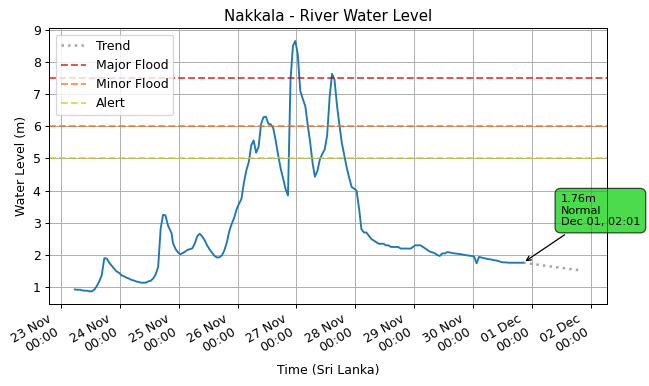
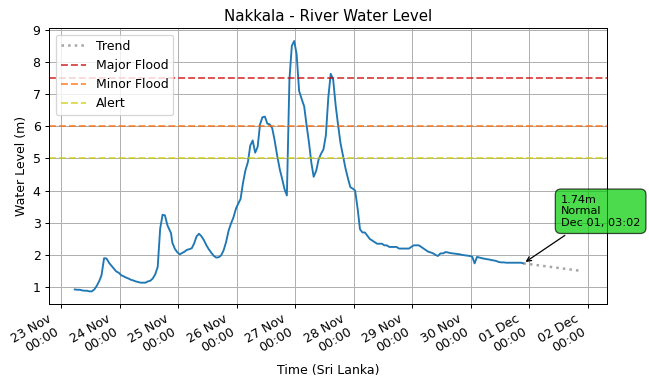
🤖 [update_latest.yml] 2025-11-30-2133

diff --git a/README.md b/README.md
@@ -1,11 +1,11 @@
 # lk_irrigation 🇱🇰
 
 ![Status: Live](https://img.shields.io/badge/status-live-brightgreen)
-![LastUpdated](https://img.shields.io/badge/last_updated-2025--12--01_02:11:32-green)
+![LastUpdated](https://img.shields.io/badge/last_updated-2025--12--01_03:02:46-green)
 
 Realtime Data about *River Water Levels* in Sri Lanka, from the [Irrigation Deptartment](https://www.irrigation.gov.lk)'s [Hydrology and Disaster Management](https://www.irrigation.gov.lk/web/index.php?option=com_content&view=article&id=27&Itemid=128&lang=en) Division.
 
-- [Complete Dataset](data/rwlds) with **6,317 measurements** from **39** stations.
+- [Complete Dataset](data/rwlds) with **6,324 measurements** from **39** stations.
 - [Scrape and load logic](src/lk_irrigation/rwld/RiverWaterLevelDataLoadMixin.py)
 - [Original Data source](https://www.arcgis.com/apps/dashboards/2cffe83c9ff5497d97375498bdf3ff38)
 
@@ -19,6 +19,13 @@ Realtime Data about *River Water Levels* in Sri Lanka, from the [Irrigation Dept
 
 | Measured At | Station (River Basin) | Level (m) | Alert Level | Rate-of-Rise (m/hr) | Rising Alert |
 | --- | --- | ---: | --- | ---: | --- |
+| 2025-12-01 03:02:46 | Urawa (Nilwala Ganga) | 0.75 | 🟢 Normal | -0.020 |  |
+| 2025-12-01 03:02:27 | Pitabeddara (Nilwala Ganga) | 1.10 | 🟢 Normal | -0.020 |  |
+| 2025-12-01 03:02:10 | Nawalapitiya (Mahaweli Ganga) | 1.96 | 🟢 Normal | -1.565 |  |
+| 2025-12-01 03:02:07 | Nakkala (Kumbukkan Oya) | 1.74 | 🟢 Normal | -0.020 |  |
+| 2025-12-01 03:02:06 | Siyambalanduwa (Heda Oya) | 1.25 | 🟢 Normal | 0.000 |  |
+| 2025-12-01 03:01:47 | Nawalapitiya (Mahaweli Ganga) | 1.97 | 🟢 Normal | -1.565 |  |
+| 2025-12-01 03:01:23 | Nawalapitiya (Mahaweli Ganga) | 1.98 | 🟢 Normal | -1.565 |  |
 | 2025-12-01 02:11:32 | Putupaula (Kalu Ganga) | 4.29 | 🟠 Minor Flood | 0.000 |  |
 | 2025-12-01 02:09:26 | Kithulgala (Kelani Ganga) | 2.39 | 🟢 Normal | 0.037 | 🔺 Rising |
 | 2025-12-01 02:08:53 | Baddegama (Gin Ganga) | 2.24 | 🟢 Normal | -0.019 |  |
@@ -35,16 +42,9 @@ Realtime Data about *River Water Levels* in Sri Lanka, from the [Irrigation Dept
 | 2025-12-01 02:04:38 | Nagalagam Street (Kelani Ganga) | 2.53 | 🔴 Major Flood | 0.000 |  |
 | 2025-12-01 02:03:53 | Norwood (Kelani Ganga) | 1.36 | 🟢 Normal | 0.020 | 🔺 Rising |
 | 2025-12-01 02:03:47 | Thalgahagoda (Nilwala Ganga) | 1.02 | 🟢 Normal | -0.011 |  |
-| 2025-12-01 02:03:35 | Siyambalanduwa (Heda Oya) | 1.25 | 🟢 Normal | -0.010 |  |
+| 2025-12-01 02:03:35 | Siyambalanduwa (Heda Oya) | 1.25 | 🟢 Normal | 0.000 |  |
 | 2025-12-01 02:03:16 | Yaka Wewa (Ma Oya) | 1.29 | 🟢 Normal | -0.020 |  |
-| 2025-12-01 02:03:15 | Urawa (Nilwala Ganga) | 0.77 | 🟢 Normal | 0.000 |  |
-| 2025-12-01 02:02:20 | Dunamale (Aththanagalu Oya) | 4.80 | 🟠 Minor Flood | -0.050 |  |
-| 2025-12-01 02:02:12 | Katharagama (Menik Ganga) | 0.94 | 🟢 Normal | -0.010 |  |
-| 2025-12-01 02:02:04 | Pitabeddara (Nilwala Ganga) | 1.12 | 🟢 Normal | -0.010 |  |
-| 2025-12-01 02:01:51 | Nakkala (Kumbukkan Oya) | 1.76 | 🟢 Normal | 0.000 |  |
-| 2025-12-01 02:01:44 | Thawalama (Gin Ganga) | 2.09 | 🟢 Normal | 0.000 |  |
-| 2025-12-01 02:01:41 | Glencourse (Kelani Ganga) | 14.46 | 🟢 Normal | -0.247 |  |
-| 2025-12-01 02:01:36 | Kuda Oya (Kirindi Oya) | 1.94 | 🟢 Normal | 0.000 |  |
+| 2025-12-01 02:03:15 | Urawa (Nilwala Ganga) | 0.77 | 🟢 Normal | -0.020 |  |
 
 ## Latest by Station
 
@@ -71,26 +71,26 @@ Realtime Data about *River Water Levels* in Sri Lanka, from the [Irrigation Dept
 | 2025-12-01 02:09:26 | Kithulgala (Kelani Ganga) | 2.39 | 🟢 Normal | 0.037 | 🔺 Rising |
 | 2025-12-01 02:03:53 | Norwood (Kelani Ganga) | 1.36 | 🟢 Normal | 0.020 | 🔺 Rising |
 | 2025-12-01 02:06:21 | Wellawaya (Kirindi Oya) | 1.23 | 🟢 Normal | 0.000 |  |
-| 2025-12-01 02:01:51 | Nakkala (Kumbukkan Oya) | 1.76 | 🟢 Normal | 0.000 |  |
 | 2025-12-01 02:06:43 | Deraniyagala (Kelani Ganga) | 1.45 | 🟢 Normal | 0.000 |  |
+| 2025-12-01 03:02:06 | Siyambalanduwa (Heda Oya) | 1.25 | 🟢 Normal | 0.000 |  |
 | 2025-12-01 02:01:44 | Thawalama (Gin Ganga) | 2.09 | 🟢 Normal | 0.000 |  |
-| 2025-12-01 02:03:15 | Urawa (Nilwala Ganga) | 0.77 | 🟢 Normal | 0.000 |  |
 | 2025-12-01 02:01:36 | Kuda Oya (Kirindi Oya) | 1.94 | 🟢 Normal | 0.000 |  |
 | 2025-12-01 02:06:48 | Panadugama (Nilwala Ganga) | 3.53 | 🟢 Normal | -0.010 |  |
-| 2025-12-01 02:03:35 | Siyambalanduwa (Heda Oya) | 1.25 | 🟢 Normal | -0.010 |  |
 | 2025-12-01 02:08:04 | Thanamalwila (Kirindi Oya) | 1.64 | 🟢 Normal | -0.010 |  |
-| 2025-12-01 02:02:04 | Pitabeddara (Nilwala Ganga) | 1.12 | 🟢 Normal | -0.010 |  |
 | 2025-12-01 02:02:12 | Katharagama (Menik Ganga) | 0.94 | 🟢 Normal | -0.010 |  |
 | 2025-12-01 02:03:47 | Thalgahagoda (Nilwala Ganga) | 1.02 | 🟢 Normal | -0.011 |  |
-| 2025-12-01 00:01:55 | Nawalapitiya (Mahaweli Ganga) | 1.99 | 🟢 Normal | -0.011 |  |
 | 2025-12-01 02:08:53 | Baddegama (Gin Ganga) | 2.24 | 🟢 Normal | -0.019 |  |
+| 2025-12-01 03:02:27 | Pitabeddara (Nilwala Ganga) | 1.10 | 🟢 Normal | -0.020 |  |
 | 2025-12-01 02:08:18 | Holombuwa (Kelani Ganga) | 1.45 | 🟢 Normal | -0.020 |  |
+| 2025-12-01 03:02:07 | Nakkala (Kumbukkan Oya) | 1.74 | 🟢 Normal | -0.020 |  |
 | 2025-12-01 02:03:16 | Yaka Wewa (Ma Oya) | 1.29 | 🟢 Normal | -0.020 |  |
+| 2025-12-01 03:02:46 | Urawa (Nilwala Ganga) | 0.75 | 🟢 Normal | -0.020 |  |
 | 2025-11-30 14:03:57 | Padiyathalawa (Maduru Oya) | 1.17 | 🟢 Normal | -0.021 |  |
 | 2025-12-01 00:00:09 | Moraketiya (Walawe Ganga) | 1.41 | 🟢 Normal | -0.030 |  |
 | 2025-12-01 02:05:50 | Magura (Kalu Ganga) | 2.30 | 🟢 Normal | -0.055 |  |
 | 2025-12-01 01:09:10 | Giriulla (Maha Oya) | 3.64 | 🟢 Normal | -0.073 |  |
 | 2025-12-01 02:01:41 | Glencourse (Kelani Ganga) | 14.46 | 🟢 Normal | -0.247 |  |
+| 2025-12-01 03:02:10 | Nawalapitiya (Mahaweli Ganga) | 1.96 | 🟢 Normal | -1.565 |  |
 
 ## River Water Level Charts by Station
 
@@ -170,21 +170,17 @@ Realtime Data about *River Water Levels* in Sri Lanka, from the [Irrigation Dept
 
 ![Wellawaya](images/stations/wellawaya.png)
 
-### Nakkala (Kumbukkan Oya)
-
-![Nakkala](images/stations/nakkala.png)
-
 ### Deraniyagala (Kelani Ganga)
 
 ![Deraniyagala](images/stations/deraniyagala.png)
 
+### Siyambalanduwa (Heda Oya)
+
+![Siyambalanduwa](images/stations/siyambalanduwa.png)
+
 ### Thawalama (Gin Ganga)
 
 ![Thawalama](images/stations/thawalama.png)
-
-### Urawa (Nilwala Ganga)
-
-![Urawa](images/stations/urawa.png)
 
 ### Kuda Oya (Kirindi Oya)
 
@@ -194,17 +190,9 @@ Realtime Data about *River Water Levels* in Sri Lanka, from the [Irrigation Dept
 
 ![Panadugama](images/stations/panadugama.png)
 
-### Siyambalanduwa (Heda Oya)
-
-![Siyambalanduwa](images/stations/siyambalanduwa.png)
-
 ### Thanamalwila (Kirindi Oya)
 
 ![Thanamalwila](images/stations/thanamalwila.png)
-
-### Pitabeddara (Nilwala Ganga)
-
-![Pitabeddara](images/stations/pitabeddara.png)
 
 ### Katharagama (Menik Ganga)
 
@@ -214,21 +202,29 @@ Realtime Data about *River Water Levels* in Sri Lanka, from the [Irrigation Dept
 
 ![Thalgahagoda](images/stations/thalgahagoda.png)
 
-### Nawalapitiya (Mahaweli Ganga)
-
-![Nawalapitiya](images/stations/nawalapitiya.png)
-
 ### Baddegama (Gin Ganga)
 
 ![Baddegama](images/stations/baddegama.png)
+
+### Pitabeddara (Nilwala Ganga)
+
+![Pitabeddara](images/stations/pitabeddara.png)
 
 ### Holombuwa (Kelani Ganga)
 
 ![Holombuwa](images/stations/holombuwa.png)
 
+### Nakkala (Kumbukkan Oya)
+
+![Nakkala](images/stations/nakkala.png)
+
 ### Yaka Wewa (Ma Oya)
 
 ![Yaka Wewa](images/stations/yaka-wewa.png)
+
+### Urawa (Nilwala Ganga)
+
+![Urawa](images/stations/urawa.png)
 
 ### Padiyathalawa (Maduru Oya)
 
@@ -249,6 +245,10 @@ Realtime Data about *River Water Levels* in Sri Lanka, from the [Irrigation Dept
 ### Glencourse (Kelani Ganga)
 
 ![Glencourse](images/stations/glencourse.png)
+
+### Nawalapitiya (Mahaweli Ganga)
+
+![Nawalapitiya](images/stations/nawalapitiya.png)
 
 ![Maintainer](https://img.shields.io/badge/maintainer-nuuuwan-red)
 ![MadeWith](https://img.shields.io/badge/made_with-python-blue)
